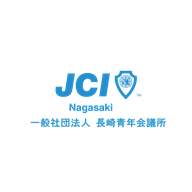
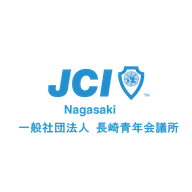
ver2.2: アイコンのロゴサイズ拡大（余白を最小化）

Changed region(s): [[0.0938, 0.3438, 0.9375, 0.7188]]

diff --git a/index.html b/index.html
@@ -640,7 +640,7 @@ textarea { resize: vertical; min-height: 60px; }
 
 <div class="header">
   <h1>広報配信依頼書</h1>
-  <div class="subtitle">長崎JC 第74年度 広報委員会 <span style="opacity:0.7;">ver2.1</span></div>
+  <div class="subtitle">長崎JC 第74年度 広報委員会 <span style="opacity:0.7;">ver2.2</span></div>
 </div>
 
 <div class="main-wrap">
@@ -821,8 +821,9 @@ textarea { resize: vertical; min-height: 60px; }
 
 <script>
 // --- バージョン管理・更新通知 ---
-const APP_VERSION = '2.1';
+const APP_VERSION = '2.2';
 const RELEASE_NOTES = {
+  '2.2': ['アプリアイコンのロゴサイズを拡大（視認性向上）'],
   '2.1': ['アプリアイコンをJCI Nagasaki公式ロゴに変更'],
   '2.0': ['責任者・委員会名・広報責任者を「記憶」できる機能追加', 'リセットしても記憶した値は残ります', '値を変更すると自動で記憶も更新されます'],
   '1.9': ['過去の配信記事の履歴機能を追加', '履歴から記事を読み込み・テキストコピー可能', '画像はサーバー・端末に保存しません'],
